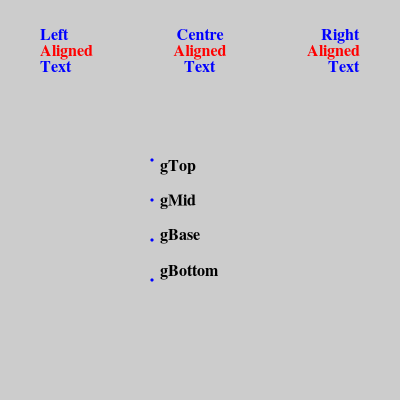
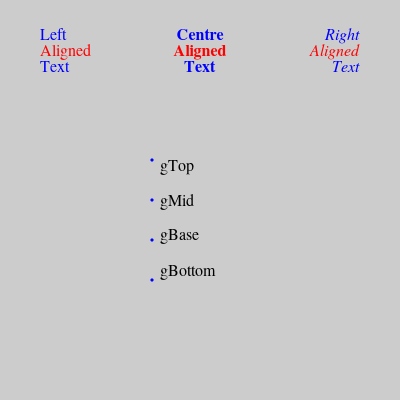
Tidy up font handling using parameter class, add bold/italic support, add font support to graph module.

diff --git a/imagetests/test_geometry_module.py b/imagetests/test_geometry_module.py
@@ -1,5 +1,5 @@
 import unittest
-from generativepy.drawing import setup, make_image, BUTT, ROUND, BEVEL
+from generativepy.drawing import setup, make_image, BUTT, ROUND, BEVEL, FONT_WEIGHT_BOLD, FONT_SLANT_ITALIC
 from image_test_helper import run_image_test
 from generativepy.color import Color
 from generativepy.geometry import Image, Text, Circle, circle, Bezier, Polygon, Square, square, Rectangle,\
@@ -294,7 +294,7 @@ class TestGeometryImages(unittest.TestCase):
             ctx.restore()
 
             ctx.save()
-            Text(ctx).of("ABC", (1.5, 3.5)).font("Times").size(1.5).align_left().align_top().clip()
+            Text(ctx).of("ABC", (1.5, 3.5)).font("Times", weight=FONT_WEIGHT_BOLD).size(1.5).align_left().align_top().clip()
             circles = [(2, 3.8, 'orange'), (2, 4.5, 'cyan'), (3, 3.8, 'green'),
                        (3, 4.5, 'purple'), (4, 3.8, 'yellow'), (4, 4.5, 'blue')]
             for x, y, color in circles:
@@ -434,16 +434,19 @@ class TestGeometryImages(unittest.TestCase):
             Text(ctx).of("Aligned", (0.5, 0.7)).font("Times").size(0.2).align_left().align_baseline().fill(Color('red'))
             Text(ctx).of("Text", (0.5, 0.9)).font("Times").size(0.2).align_left().align_baseline().fill(Color('blue'))
 
-            Text(ctx).of("Centre", (2.5, 0.5)).font("Times").size(0.2).align_center().align_baseline().fill(
-                Color('blue'))
-            Text(ctx).of("Aligned", (2.5, 0.7)).font("Times").size(0.2).align_center().align_baseline().fill(
-                Color('red'))
-            Text(ctx).of("Text", (2.5, 0.9)).font("Times").size(0.2).align_center().align_baseline().fill(Color('blue'))
+            Text(ctx).of("Centre", (2.5, 0.5)).font("Times", weight=FONT_WEIGHT_BOLD).size(0.2)\
+                     .align_center().align_baseline().fill(Color('blue'))
+            Text(ctx).of("Aligned", (2.5, 0.7)).font("Times", weight=FONT_WEIGHT_BOLD).size(0.2)\
+                     .align_center().align_baseline().fill(Color('red'))
+            Text(ctx).of("Text", (2.5, 0.9)).font("Times", weight=FONT_WEIGHT_BOLD).size(0.2)\
+                     .align_center().align_baseline().fill(Color('blue'))
 
-            Text(ctx).of("Right", (4.5, 0.5)).font("Times").size(0.2).align_right().align_baseline().fill(Color('blue'))
-            Text(ctx).of("Aligned", (4.5, 0.7)).font("Times").size(0.2).align_right().align_baseline().fill(
-                Color('red'))
-            Text(ctx).of("Text", (4.5, 0.9)).font("Times").size(0.2).align_right().align_baseline().fill(Color('blue'))
+            Text(ctx).of("Right", (4.5, 0.5)).font("Times", slant=FONT_SLANT_ITALIC).size(0.2)\
+                     .align_right().align_baseline().fill(Color('blue'))
+            Text(ctx).of("Aligned", (4.5, 0.7)).font("Times", slant=FONT_SLANT_ITALIC).size(0.2)\
+                     .align_right().align_baseline().fill(Color('red'))
+            Text(ctx).of("Text", (4.5, 0.9)).font("Times", slant=FONT_SLANT_ITALIC).size(0.2)\
+                     .align_right().align_baseline().fill(Color('blue'))
 
             Circle(ctx).of_center_radius((1.9, 2), 0.02).fill(Color(0, 0, 1))
             Text(ctx).of("gTop", (2, 2)).font("Times").size(0.2).align_left().align_top().fill(Color('black'))
@@ -469,10 +472,10 @@ class TestGeometryImages(unittest.TestCase):
 
             Circle(ctx).of_center_radius((200, 200), 10).fill(Color('red'))
             Circle(ctx).of_center_radius((100, 150), 10).fill(Color('blue'))
-            Text(ctx).of('A', (200, 200)).size(40).fill(Color(0))
-            Text(ctx).of('B', (200, 200)).offset(100, 20).size(40).fill(Color(0))
-            Text(ctx).of('C', (200, 200)).offset_angle(1, 150).size(40).fill(Color(0))
-            Text(ctx).of('D', (200, 200)).offset_towards((100, 150), 50).size(40).fill(Color(0))
+            Text(ctx).of('A', (200, 200)).font('Arial').size(40).fill(Color(0))
+            Text(ctx).of('B', (200, 200)).font('Arial').offset(100, 20).size(40).fill(Color(0))
+            Text(ctx).of('C', (200, 200)).font('Arial').offset_angle(1, 150).size(40).fill(Color(0))
+            Text(ctx).of('D', (200, 200)).font('Arial').offset_towards((100, 150), 50).size(40).fill(Color(0))
 
         def creator(file):
             make_image(file, draw, 400, 400)
@@ -503,7 +506,7 @@ class TestGeometryImages(unittest.TestCase):
             path1 = Polygon(ctx).of_points([(0, 0), (1, 1), (0.5, 2), (0.5, 1)]).path()
 
             # Get a text path object
-            path2 = Text(ctx).of("Path text", (0, 0)).font("Times").size(0.2).align_left().align_top().path()
+            path2 = Text(ctx).of("Path text", (0, 0)).font("Times", weight=FONT_WEIGHT_BOLD).size(0.2).align_left().align_top().path()
 
             # Apply the polygon in various places
             ctx.save()

diff --git a/generativepy/graph.py b/generativepy/graph.py
@@ -6,23 +6,29 @@
 import cairo
 import math
 import numpy as np
+from dataclasses import dataclass
 
-from generativepy.geometry import text, Shape
-from generativepy.drawing import MITER, SQUARE
+from generativepy.geometry import Text, Shape, FillParameters, StrokeParameters, FontParameters
+from generativepy.drawing import BUTT, FONT_WEIGHT_BOLD
 from generativepy.color import Color
 from generativepy import drawing
 
-class AxesAppearance():
+@dataclass
+class AxesAppearance:
     '''
     Parameters that control the appearance of the axes (colours, line styles).
     '''
+    background = FillParameters(Color(1))
+    textcolor = Color(0.2)
+    fontparams = FontParameters('arial', size=15, weight=FONT_WEIGHT_BOLD)
+    divlines = StrokeParameters(Color(0.8, 0.8, 1), line_width=2, cap=BUTT)
+    axislines = StrokeParameters(Color(0.2), line_width=2, cap=BUTT)
 
-    def __init__(self):
-        pass
 
 class Axes:
     def __init__(self, ctx, position, width, height):
         self.ctx = ctx
+        self.appearance = AxesAppearance()
         self.position = position
         self.width = width
         self.height = height
@@ -40,14 +46,19 @@ class Axes:
 
     def draw(self):
         self.clip()
+        self._draw_background()
         self._draw_divlines()
         self._draw_axes()
         self._draw_axes_values()
         self.unclip()
 
+    def _draw_background(self):
+        self.appearance.background.apply(self.ctx)
+        self.ctx.rectangle(self.position[0], self.position[1], self.width, self.height)
+        self.ctx.fill()
+
     def _draw_divlines(self):
-        self.ctx.set_line_width(2)
-        self.ctx.set_source_rgba(*Color(0.8, 0.8, 1))
+        self.appearance.divlines.apply(self.ctx)
         for p in self._get_divs(self.start[0], self.extent[0], self.divisions[0]):
             self.ctx.move_to(*self.transform_from_graph((p, self.start[1])))
             self.ctx.line_to(*self.transform_from_graph((p, self.start[1] + self.extent[1])))
@@ -57,8 +68,7 @@ class Axes:
         self.ctx.stroke()
 
     def _draw_axes(self):
-        self.ctx.set_line_width(2)
-        self.ctx.set_source_rgba(*Color(0.2, 0.2, 0.2))
+        self.appearance.axislines.apply(self.ctx)
         self.ctx.move_to(*self.transform_from_graph((0, self.start[1])))
         self.ctx.line_to(*self.transform_from_graph((0, self.start[1] + self.extent[1])))
         self.ctx.move_to(*self.transform_from_graph((self.start[0], 0)))
@@ -69,10 +79,7 @@ class Axes:
         self.ctx.stroke()
 
     def _draw_axes_values(self):
-        self.ctx.set_line_width(2)
-        self.ctx.set_source_rgba(*Color(0.2, 0.2, 0.2))
-        self.ctx.set_font_size(15)
-        self.ctx.select_font_face('Arial', cairo.FONT_SLANT_NORMAL, cairo.FONT_WEIGHT_BOLD)
+        self.appearance.axislines.apply(self.ctx)
 
         xoffset = 10
         yoffset = 10
@@ -80,7 +87,11 @@ class Axes:
             if abs(p)>0.001:
                 position = self.transform_from_graph((p, 0))
                 pstr = self._format_div(p, self.divisions[0])
-                text(self.ctx, pstr, position[0] - xoffset, position[1] + yoffset, alignx=drawing.RIGHT, aligny=drawing.TOP)
+                Text(self.ctx).of(pstr, (position[0] - xoffset, position[1] + yoffset))\
+                    .font(self.appearance.fontparams.font, self.appearance.fontparams.weight,
+                          self.appearance.fontparams.slant)\
+                    .size(self.appearance.fontparams.size).align(drawing.RIGHT, drawing.TOP).fill(self.appearance.textcolor)
+                self.ctx.new_path()
                 self.ctx.move_to(position[0], position[1])
                 self.ctx.line_to(position[0], position[1] + yoffset)
                 self.ctx.stroke()
@@ -89,7 +100,11 @@ class Axes:
             if abs(p)>0.001:
                 position = self.transform_from_graph((0, p))
                 pstr = self._format_div(p, self.divisions[1])
-                text(self.ctx, pstr, position[0] - xoffset, position[1] + yoffset, alignx=drawing.RIGHT, aligny=drawing.TOP)
+                Text(self.ctx).of(pstr, (position[0] - xoffset, position[1] + yoffset))\
+                    .font(self.appearance.fontparams.font, self.appearance.fontparams.weight,
+                          self.appearance.fontparams.slant)\
+                    .size(self.appearance.fontparams.size).align(drawing.RIGHT, drawing.TOP).fill(self.appearance.textcolor)
+                self.ctx.new_path()
                 self.ctx.move_to(position[0], position[1])
                 self.ctx.line_to(position[0] - xoffset, position[1])
                 self.ctx.stroke()

diff --git a/generativepy/geometry.py b/generativepy/geometry.py
@@ -4,8 +4,11 @@
 # License: MIT
 import cairo
 import math
+from dataclasses import dataclass
 from generativepy.drawing import LEFT, CENTER, RIGHT, BOTTOM, MIDDLE, BASELINE, TOP
 from generativepy.drawing import WINDING
+from generativepy.drawing import FONT_WEIGHT_NORMAL, FONT_WEIGHT_BOLD
+from generativepy.drawing import FONT_SLANT_NORMAL, FONT_SLANT_ITALIC, FONT_SLANT_OBLIQUE
 from generativepy.drawing import MITER, ROUND, BEVEL, BUTT, SQUARE
 from generativepy.drawing import LINE, RAY, SEGMENT
 from generativepy.color import Color
@@ -92,6 +95,7 @@ class LinearGradient(Pattern):
         return self
 
 
+@dataclass
 class FillParameters:
     '''
     Stores parameters for filling a shape, and can apply them to a context
@@ -123,6 +127,7 @@ class FillParameters:
             ctx.set_fill_rule(cairo.FillRule.EVEN_ODD)
 
 
+@dataclass
 class StrokeParameters:
     '''
     Stores parameters for stroking a shape, and can apply them to a context
@@ -175,6 +180,45 @@ class StrokeParameters:
             ctx.set_line_join(cairo.LineJoin.MITER)
 
         ctx.set_miter_limit(self.miter_limit)
+
+
+@dataclass
+class FontParameters:
+    '''
+    Stores parameters for font, and can apply them to a context
+    '''
+
+    def __init__(self, font=None, weight=None, slant=None, size=None):
+        '''
+        Set parameters
+        :param font: name of font face
+        :param weight: font weight
+        :param slant:  font slant
+        :param size: font size
+        '''
+        self.font = 'Arial' if font is None else font
+        self.weight = FONT_WEIGHT_NORMAL if weight is None else weight
+        self.slant = FONT_SLANT_NORMAL if slant is None else slant
+        self.size = 10 if size is None else size
+
+    def apply(self, ctx):
+        '''
+        Apply the settings to a context. After this, any stroke operation using the context will use the
+        settings.
+        :param ctx: The context to apply the settings to.
+        '''
+        c_weight = cairo.FONT_WEIGHT_NORMAL
+        if self.weight == FONT_WEIGHT_BOLD:
+            c_weight = cairo.FONT_WEIGHT_BOLD
+
+        c_slant = cairo.FONT_SLANT_NORMAL
+        if self.slant == FONT_SLANT_ITALIC:
+            c_slant = cairo.FONT_SLANT_ITALIC
+        elif self.slant == FONT_SLANT_OBLIQUE:
+            c_slant = cairo.FONT_SLANT_OBLIQUE
+
+        ctx.select_font_face(self.font, c_slant, c_weight)
+        ctx.set_font_size(self.size)
 
 
 class Shape():
@@ -343,6 +387,8 @@ class Text(Shape):
         self.position = (0, 0)
         self._size = None
         self._font = None
+        self._weight = None
+        self._slant = None
         self.alignx = LEFT
         self.aligny = BASELINE
         self._flip = False
@@ -350,11 +396,7 @@ class Text(Shape):
 
     def add(self):
         self._do_path_()
-        if self._font:
-            self.ctx.select_font_face(self._font, cairo.FONT_SLANT_NORMAL,
-                                 cairo.FONT_WEIGHT_BOLD)
-        if self._size:
-            self.ctx.set_font_size(self._size)
+        FontParameters(font=self._font, size=self._size, weight=self._weight, slant=self._slant).apply(self.ctx)
 
         x, y = self.position
         x += self._offset[0]
@@ -390,8 +432,10 @@ class Text(Shape):
         self.position = position
         return self
 
-    def font(self, font):
+    def font(self, font, weight=None, slant=None):
         self._font = font
+        self._weight = weight
+        self._slant = slant
         return self
 
     def size(self, size):
@@ -458,7 +502,7 @@ class Text(Shape):
 
 
 
-def text(ctx, txt, x, y, font=None, size=None, color=None, alignx=LEFT, aligny=BASELINE, flip=False):
+def text(ctx, txt, x, y, font=None, size=None, weight=None, slant=None, color=None, alignx=LEFT, aligny=BASELINE, flip=False):
     '''
     Draw text using ths supplied ctx
     :param ctx: The context
@@ -467,6 +511,8 @@ def text(ctx, txt, x, y, font=None, size=None, color=None, alignx=LEFT, aligny=B
     :param y: y position
     :param font: font name, string
     :param size: text size
+    :param weight: text weight
+    :param slant: text slant
     :param color: text colour, Color
     :param alignx: x alignment
     :param aligny: y alignemen
@@ -476,7 +522,7 @@ def text(ctx, txt, x, y, font=None, size=None, color=None, alignx=LEFT, aligny=B
 
     shape = Text(ctx).of(txt, (x, y)).align(alignx, aligny)
     if font:
-        shape = shape.font(font)
+        shape = shape.font(font, weight, slant)
     if size:
         shape = shape.size(size)
     if flip:

diff --git a/generativepy/drawing.py b/generativepy/drawing.py
@@ -33,6 +33,16 @@ SEGMENT = 0
 RAY = 1
 LINE = 2
 
+## Font styles
+
+FONT_WEIGHT_NORMAL = 0
+FONT_WEIGHT_BOLD = 1
+
+FONT_SLANT_NORMAL = 0
+FONT_SLANT_ITALIC = 1
+FONT_SLANT_OBLIQUE = 2
+
+
 def setup(ctx, pixel_width, pixel_height, width=None, height=None, startx=0, starty=0, background=None, flip=False):
     '''
     Set up the context initial sclaling and background color
